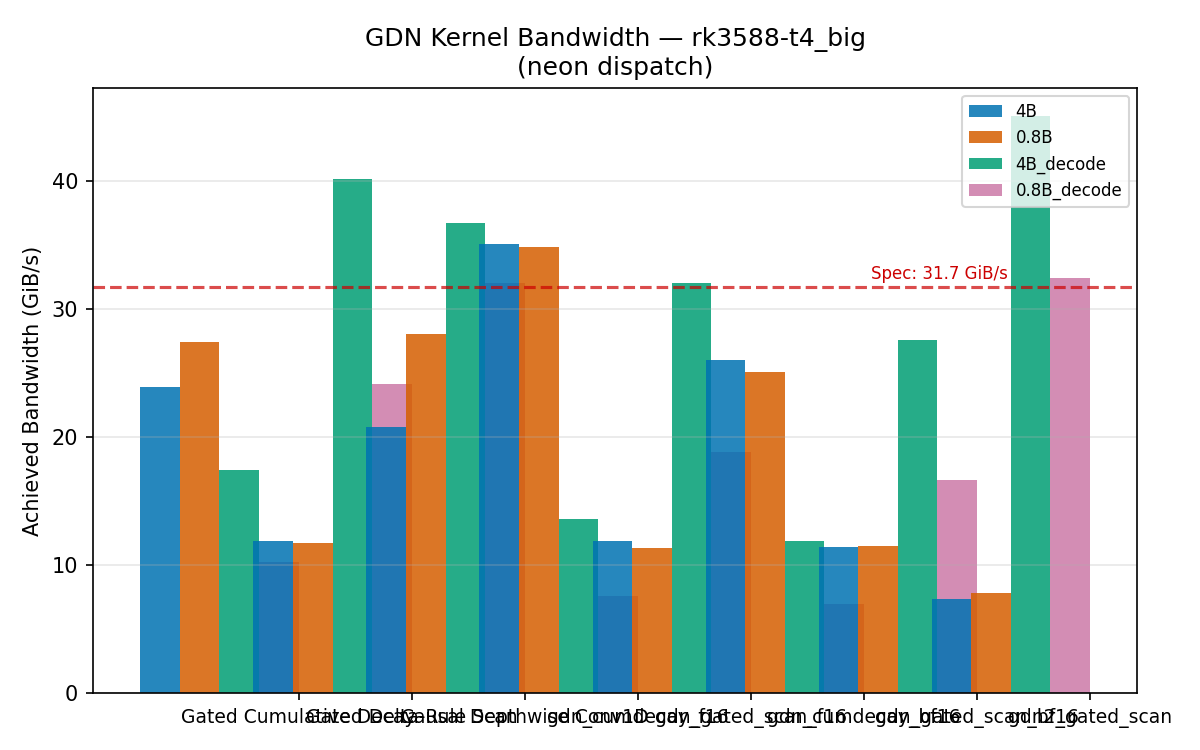
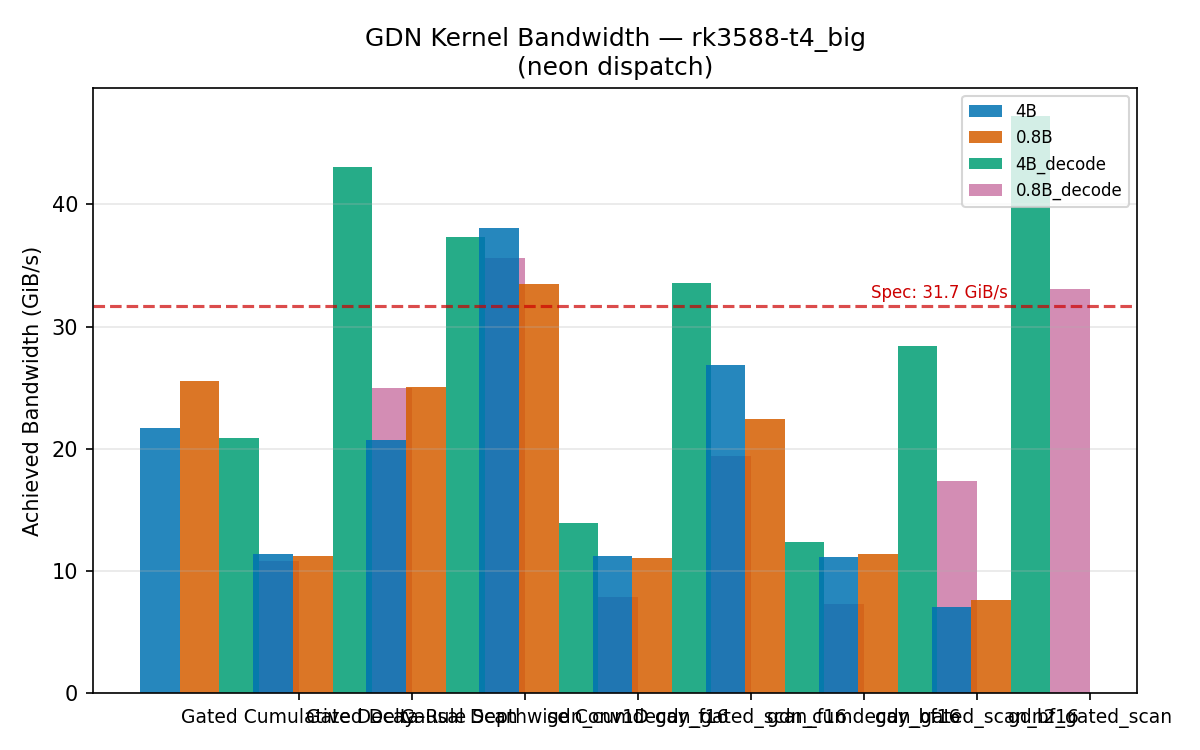
t3: regenerate stale t4 big/little tables + plots (bench/plots.py) after t4 clean re-run data

diff --git a/results/figures/rk3588-t4_big_table.md b/results/figures/rk3588-t4_big_table.md
@@ -4,38 +4,38 @@ _Source: committed CSVs in results/raw/_
 
 | Model | Kernel | Dispatch | Channels | p50 (µs) | p95 (µs) | Spread | GiB/s | GFLOP/s |
 |---|---|---|---:|---:|---:|---:|---:|---:|
-| Qwen3.5-4B | Gated Cumulative Decay | neon | 4,096 | 81.7 | 82.8 | 1.4% | 23.91 | 3.21 |
-| Qwen3.5-4B | Gated Delta-Rule Scan | neon | 4,096 | 248.8 | 271.9 | 9.3% | 11.90 | 2.11 |
-| Qwen3.5-4B | Causal Depthwise Conv1D | neon | 4,096 | 99.2 | 106.8 | 7.6% | 20.77 | 21.15 |
-| Qwen3.5-4B | gdn_cumdecay_f16 | neon | 4,096 | 41.7 | 42.9 | 2.8% | 35.12 | 6.28 |
-| Qwen3.5-4B | gdn_gated_scan_f16 | neon | 4,096 | 247.9 | 274.2 | 10.6% | 11.88 | 2.11 |
-| Qwen3.5-4B | gdn_cumdecay_bf16 | neon | 4,096 | 56.3 | 58.0 | 3.1% | 26.02 | 4.66 |
-| Qwen3.5-4B | gdn_gated_scan_bf16 | neon | 4,096 | 257.3 | 265.4 | 3.2% | 11.45 | 2.04 |
-| Qwen3.5-4B | gdn2_gated_scan | neon | 4,096 | 667.4 | 717.0 | 7.4% | 7.36 | 1.57 |
-| Qwen3.5-0.8B | Gated Cumulative Decay | neon | 2,048 | 35.6 | 36.2 | 1.6% | 27.44 | 3.68 |
-| Qwen3.5-0.8B | Gated Delta-Rule Scan | neon | 2,048 | 126.0 | 133.6 | 6.0% | 11.75 | 2.08 |
-| Qwen3.5-0.8B | Causal Depthwise Conv1D | neon | 2,048 | 36.8 | 37.6 | 2.4% | 28.02 | 28.53 |
-| Qwen3.5-0.8B | gdn_cumdecay_f16 | neon | 2,048 | 21.0 | 21.3 | 1.4% | 34.87 | 6.24 |
-| Qwen3.5-0.8B | gdn_gated_scan_f16 | neon | 2,048 | 129.8 | 134.2 | 3.4% | 11.34 | 2.02 |
-| Qwen3.5-0.8B | gdn_cumdecay_bf16 | neon | 2,048 | 29.2 | 29.5 | 1.0% | 25.11 | 4.49 |
-| Qwen3.5-0.8B | gdn_gated_scan_bf16 | neon | 2,048 | 128.1 | 132.1 | 3.2% | 11.50 | 2.05 |
-| Qwen3.5-0.8B | gdn2_gated_scan | neon | 2,048 | 312.4 | 323.5 | 3.5% | 7.86 | 1.68 |
-| Qwen3.5-4B_decode | Gated Cumulative Decay | neon | 4,096 | 1.8 | 1.8 | 0.1% | 17.44 | 2.34 |
-| Qwen3.5-4B_decode | Gated Delta-Rule Scan | neon | 4,096 | 1.9 | 2.0 | 2.8% | 40.18 | 4.31 |
-| Qwen3.5-4B_decode | Causal Depthwise Conv1D | neon | 4,096 | 3.7 | 3.8 | 1.9% | 36.75 | 8.77 |
-| Qwen3.5-4B_decode | gdn_cumdecay_f16 | neon | 4,096 | 1.7 | 1.8 | 5.2% | 13.60 | 2.43 |
-| Qwen3.5-4B_decode | gdn_gated_scan_f16 | neon | 4,096 | 1.9 | 1.9 | 1.7% | 32.00 | 4.29 |
-| Qwen3.5-4B_decode | gdn_cumdecay_bf16 | neon | 4,096 | 1.9 | 1.9 | 0.3% | 11.93 | 2.13 |
-| Qwen3.5-4B_decode | gdn_gated_scan_bf16 | neon | 4,096 | 2.2 | 2.2 | 0.3% | 27.61 | 3.71 |
-| Qwen3.5-4B_decode | gdn2_gated_scan | neon | 4,096 | 2.4 | 2.4 | 0.9% | 45.04 | 6.91 |
-| Qwen3.5-0.8B_decode | Gated Cumulative Decay | neon | 2,048 | 1.5 | 1.5 | 3.1% | 10.22 | 1.37 |
-| Qwen3.5-0.8B_decode | Gated Delta-Rule Scan | neon | 2,048 | 1.6 | 1.6 | 0.6% | 24.13 | 2.59 |
-| Qwen3.5-0.8B_decode | Causal Depthwise Conv1D | neon | 2,048 | 2.1 | 2.2 | 1.6% | 32.03 | 7.64 |
-| Qwen3.5-0.8B_decode | gdn_cumdecay_f16 | neon | 2,048 | 1.5 | 1.6 | 3.3% | 7.62 | 1.36 |
-| Qwen3.5-0.8B_decode | gdn_gated_scan_f16 | neon | 2,048 | 1.6 | 1.6 | 0.4% | 18.82 | 2.53 |
-| Qwen3.5-0.8B_decode | gdn_cumdecay_bf16 | neon | 2,048 | 1.6 | 1.6 | 0.4% | 6.98 | 1.25 |
-| Qwen3.5-0.8B_decode | gdn_gated_scan_bf16 | neon | 2,048 | 1.8 | 1.9 | 2.6% | 16.69 | 2.24 |
-| Qwen3.5-0.8B_decode | gdn2_gated_scan | neon | 2,048 | 1.6 | 1.7 | 1.1% | 32.41 | 4.97 |
+| Qwen3.5-4B | Gated Cumulative Decay | neon | 4,096 | 90.1 | 101.8 | 12.9% | 21.67 | 2.91 |
+| Qwen3.5-4B | Gated Delta-Rule Scan | neon | 4,096 | 259.3 | 276.5 | 6.6% | 11.42 | 2.02 |
+| Qwen3.5-4B | Causal Depthwise Conv1D | neon | 4,096 | 99.5 | 103.8 | 4.4% | 20.71 | 21.08 |
+| Qwen3.5-4B | gdn_cumdecay_f16 | neon | 4,096 | 38.5 | 40.3 | 4.5% | 38.04 | 6.81 |
+| Qwen3.5-4B | gdn_gated_scan_f16 | neon | 4,096 | 261.9 | 269.8 | 3.0% | 11.24 | 2.00 |
+| Qwen3.5-4B | gdn_cumdecay_bf16 | neon | 4,096 | 54.5 | 54.8 | 0.5% | 26.86 | 4.81 |
+| Qwen3.5-4B | gdn_gated_scan_bf16 | neon | 4,096 | 264.6 | 271.9 | 2.8% | 11.13 | 1.98 |
+| Qwen3.5-4B | gdn2_gated_scan | neon | 4,096 | 697.7 | 756.9 | 8.5% | 7.04 | 1.50 |
+| Qwen3.5-0.8B | Gated Cumulative Decay | neon | 2,048 | 38.2 | 38.5 | 0.8% | 25.56 | 3.43 |
+| Qwen3.5-0.8B | Gated Delta-Rule Scan | neon | 2,048 | 131.6 | 134.8 | 2.4% | 11.25 | 1.99 |
+| Qwen3.5-0.8B | Causal Depthwise Conv1D | neon | 2,048 | 41.1 | 44.6 | 8.5% | 25.04 | 25.50 |
+| Qwen3.5-0.8B | gdn_cumdecay_f16 | neon | 2,048 | 21.9 | 22.2 | 1.3% | 33.48 | 5.99 |
+| Qwen3.5-0.8B | gdn_gated_scan_f16 | neon | 2,048 | 133.3 | 139.1 | 4.4% | 11.05 | 1.97 |
+| Qwen3.5-0.8B | gdn_cumdecay_bf16 | neon | 2,048 | 32.7 | 33.3 | 1.8% | 22.42 | 4.01 |
+| Qwen3.5-0.8B | gdn_gated_scan_bf16 | neon | 2,048 | 129.5 | 141.5 | 9.2% | 11.37 | 2.02 |
+| Qwen3.5-0.8B | gdn2_gated_scan | neon | 2,048 | 321.1 | 327.6 | 2.0% | 7.65 | 1.63 |
+| Qwen3.5-4B_decode | Gated Cumulative Decay | neon | 4,096 | 1.5 | 1.8 | 19.9% | 20.91 | 2.81 |
+| Qwen3.5-4B_decode | Gated Delta-Rule Scan | neon | 4,096 | 1.8 | 1.8 | 1.3% | 43.09 | 4.63 |
+| Qwen3.5-4B_decode | Causal Depthwise Conv1D | neon | 4,096 | 3.7 | 3.7 | 2.0% | 37.37 | 8.92 |
+| Qwen3.5-4B_decode | gdn_cumdecay_f16 | neon | 4,096 | 1.6 | 1.7 | 3.2% | 13.96 | 2.50 |
+| Qwen3.5-4B_decode | gdn_gated_scan_f16 | neon | 4,096 | 1.8 | 1.9 | 2.7% | 33.53 | 4.50 |
+| Qwen3.5-4B_decode | gdn_cumdecay_bf16 | neon | 4,096 | 1.8 | 1.9 | 0.3% | 12.40 | 2.22 |
+| Qwen3.5-4B_decode | gdn_gated_scan_bf16 | neon | 4,096 | 2.1 | 2.2 | 2.0% | 28.43 | 3.82 |
+| Qwen3.5-4B_decode | gdn2_gated_scan | neon | 4,096 | 2.3 | 2.3 | 1.8% | 47.19 | 7.24 |
+| Qwen3.5-0.8B_decode | Gated Cumulative Decay | neon | 2,048 | 1.4 | 1.4 | 0.2% | 10.83 | 1.45 |
+| Qwen3.5-0.8B_decode | Gated Delta-Rule Scan | neon | 2,048 | 1.5 | 1.6 | 2.7% | 25.01 | 2.68 |
+| Qwen3.5-0.8B_decode | Causal Depthwise Conv1D | neon | 2,048 | 1.9 | 2.1 | 7.6% | 35.61 | 8.50 |
+| Qwen3.5-0.8B_decode | gdn_cumdecay_f16 | neon | 2,048 | 1.5 | 1.5 | 0.2% | 7.85 | 1.40 |
+| Qwen3.5-0.8B_decode | gdn_gated_scan_f16 | neon | 2,048 | 1.6 | 1.6 | 3.0% | 19.45 | 2.61 |
+| Qwen3.5-0.8B_decode | gdn_cumdecay_bf16 | neon | 2,048 | 1.6 | 1.6 | 0.2% | 7.33 | 1.31 |
+| Qwen3.5-0.8B_decode | gdn_gated_scan_bf16 | neon | 2,048 | 1.8 | 1.8 | 2.7% | 17.35 | 2.33 |
+| Qwen3.5-0.8B_decode | gdn2_gated_scan | neon | 2,048 | 1.6 | 1.6 | 1.8% | 33.05 | 5.07 |
 
 ## Achieved vs Spec Bandwidth
 
@@ -44,35 +44,35 @@ _Source: committed CSVs in results/raw/_
 
 | Kernel | Achieved (GiB/s) | % of Spec | p50 (µs) | Spread |
 |---|---:|---:|---:|---:|
-| Gated Cumulative Decay | 23.91 | 75.4% | 81.7 | 1.4% |
-| Gated Delta-Rule Scan | 11.90 | 37.5% | 248.8 | 9.3% |
-| Causal Depthwise Conv1D | 20.77 | 65.5% | 99.2 | 7.6% |
-| gdn_cumdecay_f16 | 35.12 | 110.8% | 41.7 | 2.8% |
-| gdn_gated_scan_f16 | 11.88 | 37.5% | 247.9 | 10.6% |
-| gdn_cumdecay_bf16 | 26.02 | 82.1% | 56.3 | 3.1% |
-| gdn_gated_scan_bf16 | 11.45 | 36.1% | 257.3 | 3.2% |
-| gdn2_gated_scan | 7.36 | 23.2% | 667.4 | 7.4% |
-| Gated Cumulative Decay | 27.44 | 86.6% | 35.6 | 1.6% |
-| Gated Delta-Rule Scan | 11.75 | 37.1% | 126.0 | 6.0% |
-| Causal Depthwise Conv1D | 28.02 | 88.4% | 36.8 | 2.4% |
-| gdn_cumdecay_f16 | 34.87 | 110.0% | 21.0 | 1.4% |
-| gdn_gated_scan_f16 | 11.34 | 35.8% | 129.8 | 3.4% |
-| gdn_cumdecay_bf16 | 25.11 | 79.2% | 29.2 | 1.0% |
-| gdn_gated_scan_bf16 | 11.50 | 36.3% | 128.1 | 3.2% |
-| gdn2_gated_scan | 7.86 | 24.8% | 312.4 | 3.5% |
-| Gated Cumulative Decay | 17.44 | 55.0% | 1.8 | 0.1% |
-| Gated Delta-Rule Scan | 40.18 | 126.8% | 1.9 | 2.8% |
-| Causal Depthwise Conv1D | 36.75 | 115.9% | 3.7 | 1.9% |
-| gdn_cumdecay_f16 | 13.60 | 42.9% | 1.7 | 5.2% |
-| gdn_gated_scan_f16 | 32.00 | 100.9% | 1.9 | 1.7% |
-| gdn_cumdecay_bf16 | 11.93 | 37.6% | 1.9 | 0.3% |
-| gdn_gated_scan_bf16 | 27.61 | 87.1% | 2.2 | 0.3% |
-| gdn2_gated_scan | 45.04 | 142.1% | 2.4 | 0.9% |
-| Gated Cumulative Decay | 10.22 | 32.2% | 1.5 | 3.1% |
-| Gated Delta-Rule Scan | 24.13 | 76.1% | 1.6 | 0.6% |
-| Causal Depthwise Conv1D | 32.03 | 101.0% | 2.1 | 1.6% |
-| gdn_cumdecay_f16 | 7.62 | 24.0% | 1.5 | 3.3% |
-| gdn_gated_scan_f16 | 18.82 | 59.4% | 1.6 | 0.4% |
-| gdn_cumdecay_bf16 | 6.98 | 22.0% | 1.6 | 0.4% |
-| gdn_gated_scan_bf16 | 16.69 | 52.6% | 1.8 | 2.6% |
-| gdn2_gated_scan | 32.41 | 102.2% | 1.6 | 1.1% |
+| Gated Cumulative Decay | 21.67 | 68.4% | 90.1 | 12.9% |
+| Gated Delta-Rule Scan | 11.42 | 36.0% | 259.3 | 6.6% |
+| Causal Depthwise Conv1D | 20.71 | 65.3% | 99.5 | 4.4% |
+| gdn_cumdecay_f16 | 38.04 | 120.0% | 38.5 | 4.5% |
+| gdn_gated_scan_f16 | 11.24 | 35.5% | 261.9 | 3.0% |
+| gdn_cumdecay_bf16 | 26.86 | 84.7% | 54.5 | 0.5% |
+| gdn_gated_scan_bf16 | 11.13 | 35.1% | 264.6 | 2.8% |
+| gdn2_gated_scan | 7.04 | 22.2% | 697.7 | 8.5% |
+| Gated Cumulative Decay | 25.56 | 80.6% | 38.2 | 0.8% |
+| Gated Delta-Rule Scan | 11.25 | 35.5% | 131.6 | 2.4% |
+| Causal Depthwise Conv1D | 25.04 | 79.0% | 41.1 | 8.5% |
+| gdn_cumdecay_f16 | 33.48 | 105.6% | 21.9 | 1.3% |
+| gdn_gated_scan_f16 | 11.05 | 34.9% | 133.3 | 4.4% |
+| gdn_cumdecay_bf16 | 22.42 | 70.7% | 32.7 | 1.8% |
+| gdn_gated_scan_bf16 | 11.37 | 35.9% | 129.5 | 9.2% |
+| gdn2_gated_scan | 7.65 | 24.1% | 321.1 | 2.0% |
+| Gated Cumulative Decay | 20.91 | 66.0% | 1.5 | 19.9% |
+| Gated Delta-Rule Scan | 43.09 | 135.9% | 1.8 | 1.3% |
+| Causal Depthwise Conv1D | 37.37 | 117.9% | 3.7 | 2.0% |
+| gdn_cumdecay_f16 | 13.96 | 44.0% | 1.6 | 3.2% |
+| gdn_gated_scan_f16 | 33.53 | 105.8% | 1.8 | 2.7% |
+| gdn_cumdecay_bf16 | 12.40 | 39.1% | 1.8 | 0.3% |
+| gdn_gated_scan_bf16 | 28.43 | 89.7% | 2.1 | 2.0% |
+| gdn2_gated_scan | 47.19 | 148.9% | 2.3 | 1.8% |
+| Gated Cumulative Decay | 10.83 | 34.2% | 1.4 | 0.2% |
+| Gated Delta-Rule Scan | 25.01 | 78.9% | 1.5 | 2.7% |
+| Causal Depthwise Conv1D | 35.61 | 112.3% | 1.9 | 7.6% |
+| gdn_cumdecay_f16 | 7.85 | 24.8% | 1.5 | 0.2% |
+| gdn_gated_scan_f16 | 19.45 | 61.4% | 1.6 | 3.0% |
+| gdn_cumdecay_bf16 | 7.33 | 23.1% | 1.6 | 0.2% |
+| gdn_gated_scan_bf16 | 17.35 | 54.7% | 1.8 | 2.7% |
+| gdn2_gated_scan | 33.05 | 104.3% | 1.6 | 1.8% |

diff --git a/results/figures/rk3588-t4_little_table.md b/results/figures/rk3588-t4_little_table.md
@@ -4,38 +4,38 @@ _Source: committed CSVs in results/raw/_
 
 | Model | Kernel | Dispatch | Channels | p50 (µs) | p95 (µs) | Spread | GiB/s | GFLOP/s |
 |---|---|---|---:|---:|---:|---:|---:|---:|
-| Qwen3.5-4B | Gated Cumulative Decay | neon | 4,096 | 336.0 | 371.9 | 10.7% | 5.81 | 0.78 |
-| Qwen3.5-4B | Gated Delta-Rule Scan | neon | 4,096 | 730.1 | 813.8 | 11.5% | 4.05 | 0.72 |
-| Qwen3.5-4B | Causal Depthwise Conv1D | neon | 4,096 | 387.4 | 404.6 | 4.4% | 5.32 | 5.41 |
-| Qwen3.5-4B | gdn_cumdecay_f16 | neon | 4,096 | 222.6 | 254.1 | 14.2% | 6.58 | 1.18 |
-| Qwen3.5-4B | gdn_gated_scan_f16 | neon | 4,096 | 727.5 | 838.9 | 15.3% | 4.05 | 0.72 |
-| Qwen3.5-4B | gdn_cumdecay_bf16 | neon | 4,096 | 248.5 | 270.7 | 8.9% | 5.89 | 1.05 |
-| Qwen3.5-4B | gdn_gated_scan_bf16 | neon | 4,096 | 721.6 | 801.0 | 11.0% | 4.08 | 0.73 |
-| Qwen3.5-4B | gdn2_gated_scan | neon | 4,096 | 2,931.5 | 3,103.0 | 5.9% | 1.68 | 0.36 |
-| Qwen3.5-0.8B | Gated Cumulative Decay | neon | 2,048 | 152.3 | 152.8 | 0.4% | 6.41 | 0.86 |
-| Qwen3.5-0.8B | Gated Delta-Rule Scan | neon | 2,048 | 253.2 | 272.4 | 7.6% | 5.85 | 1.04 |
-| Qwen3.5-0.8B | Causal Depthwise Conv1D | neon | 2,048 | 143.8 | 145.8 | 1.4% | 7.16 | 7.29 |
-| Qwen3.5-0.8B | gdn_cumdecay_f16 | neon | 2,048 | 112.3 | 116.7 | 3.9% | 6.52 | 1.17 |
-| Qwen3.5-0.8B | gdn_gated_scan_f16 | neon | 2,048 | 253.2 | 268.6 | 6.1% | 5.82 | 1.04 |
-| Qwen3.5-0.8B | gdn_cumdecay_bf16 | neon | 2,048 | 125.7 | 126.6 | 0.7% | 5.83 | 1.04 |
-| Qwen3.5-0.8B | gdn_gated_scan_bf16 | neon | 2,048 | 253.2 | 269.5 | 6.5% | 5.82 | 1.04 |
-| Qwen3.5-0.8B | gdn2_gated_scan | neon | 2,048 | 613.7 | 645.8 | 5.2% | 4.00 | 0.85 |
+| Qwen3.5-4B | Gated Cumulative Decay | neon | 4,096 | 333.1 | 358.2 | 7.5% | 5.86 | 0.79 |
+| Qwen3.5-4B | Gated Delta-Rule Scan | neon | 4,096 | 809.4 | 947.4 | 17.0% | 3.66 | 0.65 |
+| Qwen3.5-4B | Causal Depthwise Conv1D | neon | 4,096 | 394.1 | 432.3 | 9.7% | 5.23 | 5.32 |
+| Qwen3.5-4B | gdn_cumdecay_f16 | neon | 4,096 | 221.1 | 238.3 | 7.8% | 6.63 | 1.19 |
+| Qwen3.5-4B | gdn_gated_scan_f16 | neon | 4,096 | 763.6 | 817.9 | 7.1% | 3.86 | 0.69 |
+| Qwen3.5-4B | gdn_cumdecay_bf16 | neon | 4,096 | 247.1 | 263.4 | 6.6% | 5.93 | 1.06 |
+| Qwen3.5-4B | gdn_gated_scan_bf16 | neon | 4,096 | 768.9 | 854.6 | 11.2% | 3.83 | 0.68 |
+| Qwen3.5-4B | gdn2_gated_scan | neon | 4,096 | 2,906.1 | 3,316.8 | 14.1% | 1.69 | 0.36 |
+| Qwen3.5-0.8B | Gated Cumulative Decay | neon | 2,048 | 152.8 | 182.0 | 19.1% | 6.39 | 0.86 |
+| Qwen3.5-0.8B | Gated Delta-Rule Scan | neon | 2,048 | 253.8 | 273.0 | 7.6% | 5.83 | 1.03 |
+| Qwen3.5-0.8B | Causal Depthwise Conv1D | neon | 2,048 | 143.2 | 150.2 | 4.9% | 7.19 | 7.32 |
+| Qwen3.5-0.8B | gdn_cumdecay_f16 | neon | 2,048 | 112.9 | 113.8 | 0.8% | 6.49 | 1.16 |
+| Qwen3.5-0.8B | gdn_gated_scan_f16 | neon | 2,048 | 253.8 | 269.2 | 6.1% | 5.80 | 1.03 |
+| Qwen3.5-0.8B | gdn_cumdecay_bf16 | neon | 2,048 | 126.3 | 142.3 | 12.7% | 5.80 | 1.04 |
+| Qwen3.5-0.8B | gdn_gated_scan_bf16 | neon | 2,048 | 253.8 | 267.2 | 5.3% | 5.80 | 1.03 |
+| Qwen3.5-0.8B | gdn2_gated_scan | neon | 2,048 | 570.5 | 649.0 | 13.8% | 4.31 | 0.92 |
 | Qwen3.5-4B_decode | Gated Cumulative Decay | neon | 4,096 | 3.8 | 4.1 | 7.7% | 8.05 | 1.08 |
-| Qwen3.5-4B_decode | Gated Delta-Rule Scan | neon | 4,096 | 5.8 | 6.0 | 3.3% | 13.23 | 1.42 |
-| Qwen3.5-4B_decode | Causal Depthwise Conv1D | neon | 4,096 | 15.1 | 15.3 | 1.3% | 9.09 | 2.17 |
-| Qwen3.5-4B_decode | gdn_cumdecay_f16 | neon | 4,096 | 4.7 | 4.8 | 3.2% | 4.91 | 0.88 |
-| Qwen3.5-4B_decode | gdn_gated_scan_f16 | neon | 4,096 | 5.5 | 5.7 | 3.4% | 11.11 | 1.49 |
-| Qwen3.5-4B_decode | gdn_cumdecay_bf16 | neon | 4,096 | 5.2 | 5.3 | 2.8% | 4.43 | 0.79 |
-| Qwen3.5-4B_decode | gdn_gated_scan_bf16 | neon | 4,096 | 6.1 | 6.3 | 2.3% | 9.97 | 1.34 |
-| Qwen3.5-4B_decode | gdn2_gated_scan | neon | 4,096 | 10.0 | 10.2 | 1.6% | 10.64 | 1.63 |
-| Qwen3.5-0.8B_decode | Gated Cumulative Decay | neon | 2,048 | 3.7 | 3.8 | 2.9% | 4.13 | 0.55 |
-| Qwen3.5-0.8B_decode | Gated Delta-Rule Scan | neon | 2,048 | 4.5 | 4.7 | 4.2% | 8.49 | 0.91 |
-| Qwen3.5-0.8B_decode | Causal Depthwise Conv1D | neon | 2,048 | 9.9 | 10.1 | 1.5% | 6.92 | 1.65 |
-| Qwen3.5-0.8B_decode | gdn_cumdecay_f16 | neon | 2,048 | 3.9 | 4.0 | 3.7% | 2.93 | 0.53 |
-| Qwen3.5-0.8B_decode | gdn_gated_scan_f16 | neon | 2,048 | 4.3 | 4.5 | 3.5% | 7.03 | 0.94 |
-| Qwen3.5-0.8B_decode | gdn_cumdecay_bf16 | neon | 2,048 | 4.2 | 4.3 | 3.2% | 2.75 | 0.49 |
-| Qwen3.5-0.8B_decode | gdn_gated_scan_bf16 | neon | 2,048 | 4.6 | 4.7 | 3.1% | 6.67 | 0.90 |
-| Qwen3.5-0.8B_decode | gdn2_gated_scan | neon | 2,048 | 6.6 | 6.7 | 2.2% | 8.15 | 1.25 |
+| Qwen3.5-4B_decode | Gated Delta-Rule Scan | neon | 4,096 | 5.7 | 5.9 | 3.2% | 13.31 | 1.43 |
+| Qwen3.5-4B_decode | Causal Depthwise Conv1D | neon | 4,096 | 14.9 | 15.5 | 3.9% | 9.23 | 2.20 |
+| Qwen3.5-4B_decode | gdn_cumdecay_f16 | neon | 4,096 | 4.7 | 4.8 | 3.7% | 4.92 | 0.88 |
+| Qwen3.5-4B_decode | gdn_gated_scan_f16 | neon | 4,096 | 5.4 | 5.7 | 5.4% | 11.22 | 1.51 |
+| Qwen3.5-4B_decode | gdn_cumdecay_bf16 | neon | 4,096 | 5.1 | 5.3 | 2.7% | 4.45 | 0.80 |
+| Qwen3.5-4B_decode | gdn_gated_scan_bf16 | neon | 4,096 | 6.1 | 6.2 | 2.6% | 10.06 | 1.35 |
+| Qwen3.5-4B_decode | gdn2_gated_scan | neon | 4,096 | 9.8 | 10.0 | 1.6% | 10.87 | 1.67 |
+| Qwen3.5-0.8B_decode | Gated Cumulative Decay | neon | 2,048 | 3.7 | 3.8 | 3.9% | 4.14 | 0.56 |
+| Qwen3.5-0.8B_decode | Gated Delta-Rule Scan | neon | 2,048 | 4.5 | 4.6 | 3.3% | 8.56 | 0.92 |
+| Qwen3.5-0.8B_decode | Causal Depthwise Conv1D | neon | 2,048 | 9.7 | 9.9 | 2.4% | 7.07 | 1.69 |
+| Qwen3.5-0.8B_decode | gdn_cumdecay_f16 | neon | 2,048 | 3.5 | 4.0 | 12.8% | 3.24 | 0.58 |
+| Qwen3.5-0.8B_decode | gdn_gated_scan_f16 | neon | 2,048 | 4.3 | 4.5 | 3.5% | 7.07 | 0.95 |
+| Qwen3.5-0.8B_decode | gdn_cumdecay_bf16 | neon | 2,048 | 4.2 | 4.3 | 3.4% | 2.76 | 0.49 |
+| Qwen3.5-0.8B_decode | gdn_gated_scan_bf16 | neon | 2,048 | 4.5 | 4.7 | 3.0% | 6.72 | 0.90 |
+| Qwen3.5-0.8B_decode | gdn2_gated_scan | neon | 2,048 | 6.5 | 6.7 | 2.1% | 8.20 | 1.26 |
 
 ## Achieved vs Spec Bandwidth
 
@@ -44,35 +44,35 @@ _Source: committed CSVs in results/raw/_
 
 | Kernel | Achieved (GiB/s) | % of Spec | p50 (µs) | Spread |
 |---|---:|---:|---:|---:|
-| Gated Cumulative Decay | 5.81 | 18.3% | 336.0 | 10.7% |
-| Gated Delta-Rule Scan | 4.05 | 12.8% | 730.1 | 11.5% |
-| Causal Depthwise Conv1D | 5.32 | 16.8% | 387.4 | 4.4% |
-| gdn_cumdecay_f16 | 6.58 | 20.8% | 222.6 | 14.2% |
-| gdn_gated_scan_f16 | 4.05 | 12.8% | 727.5 | 15.3% |
-| gdn_cumdecay_bf16 | 5.89 | 18.6% | 248.5 | 8.9% |
-| gdn_gated_scan_bf16 | 4.08 | 12.9% | 721.6 | 11.0% |
-| gdn2_gated_scan | 1.68 | 5.3% | 2,931.5 | 5.9% |
-| Gated Cumulative Decay | 6.41 | 20.2% | 152.3 | 0.4% |
-| Gated Delta-Rule Scan | 5.85 | 18.5% | 253.2 | 7.6% |
-| Causal Depthwise Conv1D | 7.16 | 22.6% | 143.8 | 1.4% |
-| gdn_cumdecay_f16 | 6.52 | 20.6% | 112.3 | 3.9% |
-| gdn_gated_scan_f16 | 5.82 | 18.4% | 253.2 | 6.1% |
-| gdn_cumdecay_bf16 | 5.83 | 18.4% | 125.7 | 0.7% |
-| gdn_gated_scan_bf16 | 5.82 | 18.4% | 253.2 | 6.5% |
-| gdn2_gated_scan | 4.00 | 12.6% | 613.7 | 5.2% |
+| Gated Cumulative Decay | 5.86 | 18.5% | 333.1 | 7.5% |
+| Gated Delta-Rule Scan | 3.66 | 11.5% | 809.4 | 17.0% |
+| Causal Depthwise Conv1D | 5.23 | 16.5% | 394.1 | 9.7% |
+| gdn_cumdecay_f16 | 6.63 | 20.9% | 221.1 | 7.8% |
+| gdn_gated_scan_f16 | 3.86 | 12.2% | 763.6 | 7.1% |
+| gdn_cumdecay_bf16 | 5.93 | 18.7% | 247.1 | 6.6% |
+| gdn_gated_scan_bf16 | 3.83 | 12.1% | 768.9 | 11.2% |
+| gdn2_gated_scan | 1.69 | 5.3% | 2,906.1 | 14.1% |
+| Gated Cumulative Decay | 6.39 | 20.2% | 152.8 | 19.1% |
+| Gated Delta-Rule Scan | 5.83 | 18.4% | 253.8 | 7.6% |
+| Causal Depthwise Conv1D | 7.19 | 22.7% | 143.2 | 4.9% |
+| gdn_cumdecay_f16 | 6.49 | 20.5% | 112.9 | 0.8% |
+| gdn_gated_scan_f16 | 5.80 | 18.3% | 253.8 | 6.1% |
+| gdn_cumdecay_bf16 | 5.80 | 18.3% | 126.3 | 12.7% |
+| gdn_gated_scan_bf16 | 5.80 | 18.3% | 253.8 | 5.3% |
+| gdn2_gated_scan | 4.31 | 13.6% | 570.5 | 13.8% |
 | Gated Cumulative Decay | 8.05 | 25.4% | 3.8 | 7.7% |
-| Gated Delta-Rule Scan | 13.23 | 41.7% | 5.8 | 3.3% |
-| Causal Depthwise Conv1D | 9.09 | 28.7% | 15.1 | 1.3% |
-| gdn_cumdecay_f16 | 4.91 | 15.5% | 4.7 | 3.2% |
-| gdn_gated_scan_f16 | 11.11 | 35.0% | 5.5 | 3.4% |
-| gdn_cumdecay_bf16 | 4.43 | 14.0% | 5.2 | 2.8% |
-| gdn_gated_scan_bf16 | 9.97 | 31.5% | 6.1 | 2.3% |
-| gdn2_gated_scan | 10.64 | 33.6% | 10.0 | 1.6% |
-| Gated Cumulative Decay | 4.13 | 13.0% | 3.7 | 2.9% |
-| Gated Delta-Rule Scan | 8.49 | 26.8% | 4.5 | 4.2% |
-| Causal Depthwise Conv1D | 6.92 | 21.8% | 9.9 | 1.5% |
-| gdn_cumdecay_f16 | 2.93 | 9.2% | 3.9 | 3.7% |
-| gdn_gated_scan_f16 | 7.03 | 22.2% | 4.3 | 3.5% |
-| gdn_cumdecay_bf16 | 2.75 | 8.7% | 4.2 | 3.2% |
-| gdn_gated_scan_bf16 | 6.67 | 21.0% | 4.6 | 3.1% |
-| gdn2_gated_scan | 8.15 | 25.7% | 6.6 | 2.2% |
+| Gated Delta-Rule Scan | 13.31 | 42.0% | 5.7 | 3.2% |
+| Causal Depthwise Conv1D | 9.23 | 29.1% | 14.9 | 3.9% |
+| gdn_cumdecay_f16 | 4.92 | 15.5% | 4.7 | 3.7% |
+| gdn_gated_scan_f16 | 11.22 | 35.4% | 5.4 | 5.4% |
+| gdn_cumdecay_bf16 | 4.45 | 14.0% | 5.1 | 2.7% |
+| gdn_gated_scan_bf16 | 10.06 | 31.7% | 6.1 | 2.6% |
+| gdn2_gated_scan | 10.87 | 34.3% | 9.8 | 1.6% |
+| Gated Cumulative Decay | 4.14 | 13.1% | 3.7 | 3.9% |
+| Gated Delta-Rule Scan | 8.56 | 27.0% | 4.5 | 3.3% |
+| Causal Depthwise Conv1D | 7.07 | 22.3% | 9.7 | 2.4% |
+| gdn_cumdecay_f16 | 3.24 | 10.2% | 3.5 | 12.8% |
+| gdn_gated_scan_f16 | 7.07 | 22.3% | 4.3 | 3.5% |
+| gdn_cumdecay_bf16 | 2.76 | 8.7% | 4.2 | 3.4% |
+| gdn_gated_scan_bf16 | 6.72 | 21.2% | 4.5 | 3.0% |
+| gdn2_gated_scan | 8.20 | 25.9% | 6.5 | 2.1% |
